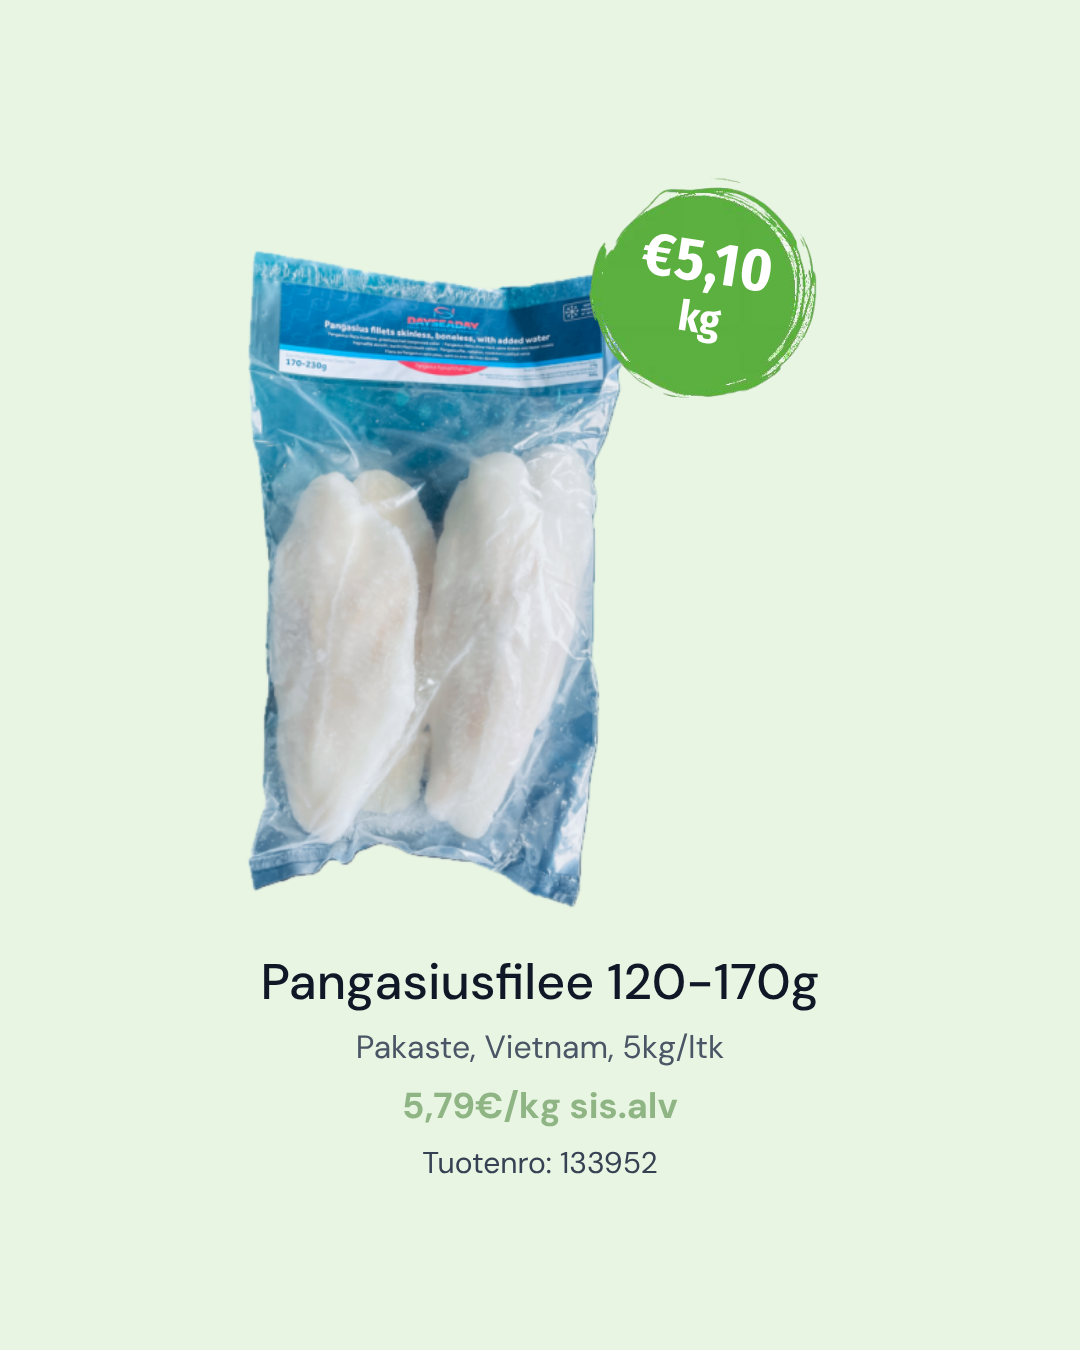
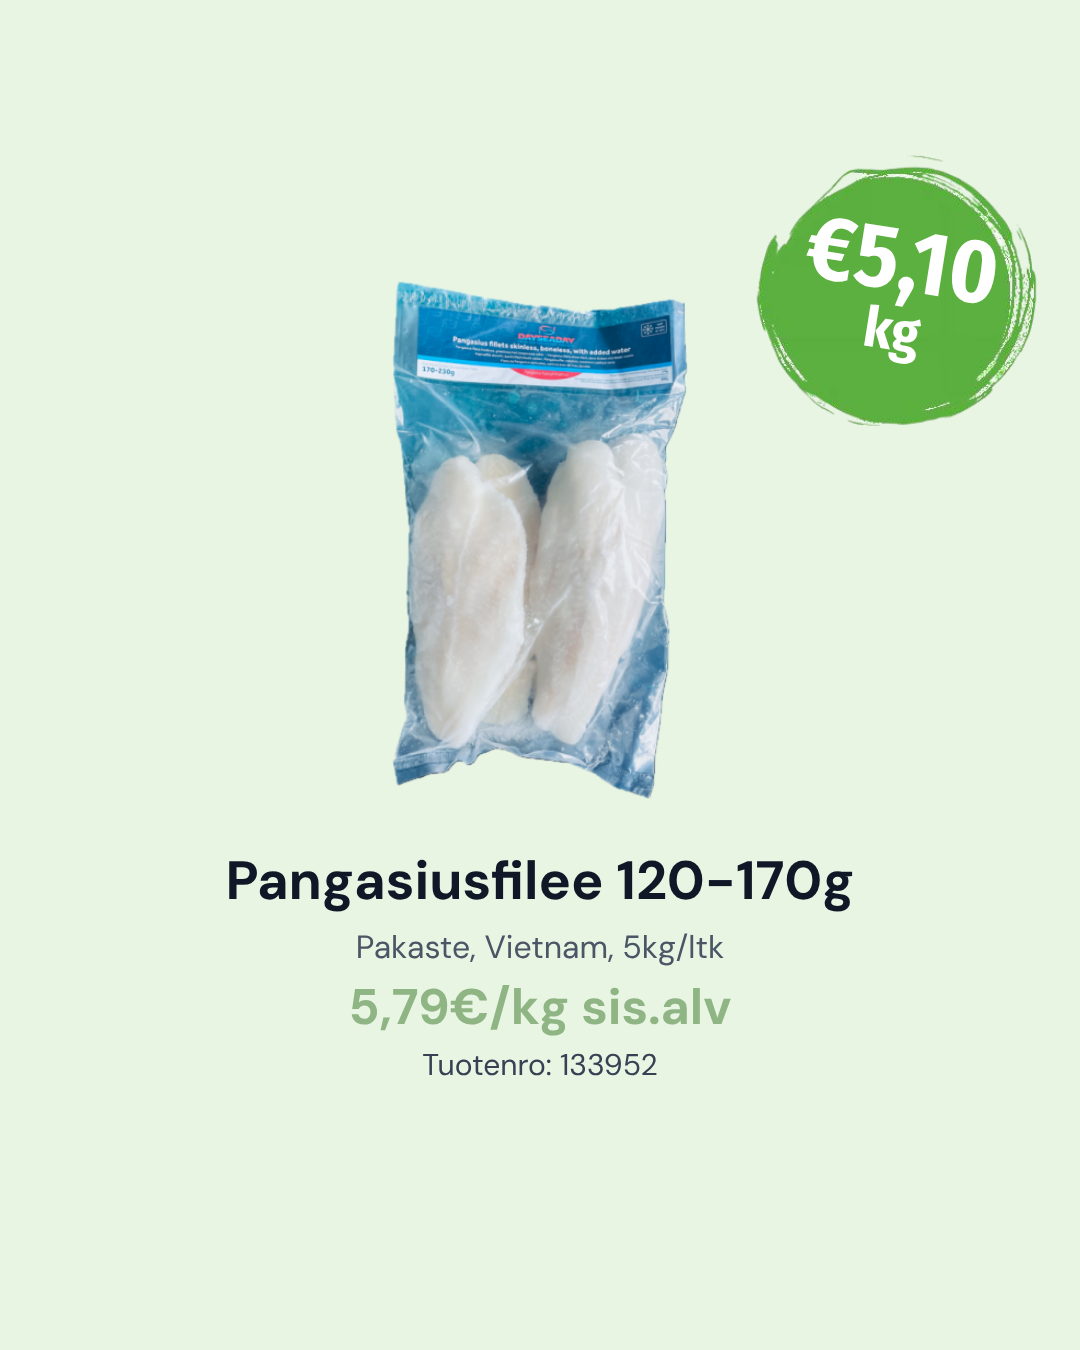
Align Instagram images on a fixed grid with larger prices
Use the same photo box, badge position and text start on every image,
centre layouts without a recipe tip vertically, and enlarge the badge
price and VAT-included price.

Claude-Session: https://claude.ai/code/session_01X8Lk915b9RmWmbPNMZUzmb

Changed region(s): [[0.2139, 0.1244, 0.9778, 0.8711]]

diff --git a/viikkotarjoukset/insta.py b/viikkotarjoukset/insta.py
@@ -14,6 +14,8 @@ from decimal import Decimal, ROUND_HALF_UP
 from rakenna import ALV, BG, HERE, data_uri, find, money, read_sheet, week_label
 
 W, H = 1080, 1350
+BADGE = 320  # hintapallon halkaisija (px)
+PHOTO_W, PHOTO_H = 640, 520  # kuva-alue, kuva keskitetään sen alareunaan
 
 
 def slug(s):
@@ -34,36 +36,36 @@ def page_html(it):
     a = lambda n: data_uri(os.path.join(HERE, "pohjat", n))
     vat = (it["price"] * ALV).quantize(Decimal("0.01"), ROUND_HALF_UP)
     img = find("kuvat", it["code"])
-    pw, ph = photo_size(img, 740, 600 if it["tip"] else 660)
+    pw, ph = photo_size(img, PHOTO_W, PHOTO_H)
+    dy = 0 if it["tip"] else 110  # ilman vinkkiä koko sommitelma hieman alemmas
+    price_fs = 90 if len(money(it["price"])) <= 4 else 72
     tip = (f'<div class="tip"><span>Käyttövinkki</span>{e(it["tip"])}</div>' if it["tip"] else "")
     return f"""<!doctype html><html><head><meta charset="utf-8">
 <link href="https://fonts.googleapis.com/css2?family=DM+Sans:wght@400;500;700&family=Fira+Sans+Condensed:wght@700&family=Just+Another+Hand&display=block" rel="stylesheet">
 <style>
 html,body{{margin:0}}
-body{{width:{W}px;height:{H}px;background:{BG};overflow:hidden;font-family:'DM Sans';box-sizing:border-box;
-     padding:60px 60px 70px;display:flex;flex-direction:column;align-items:center;justify-content:center;gap:44px}}
-.top{{display:flex;align-items:flex-start;padding-top:90px}}
-.photo{{display:block;width:{pw}px;height:{ph}px}}
-.badge{{position:relative;width:260px;height:260px;flex:none;margin-left:-50px;margin-top:-90px}}
+body{{width:{W}px;height:{H}px;background:{BG};overflow:hidden;font-family:'DM Sans';position:relative}}
+body>div{{position:absolute}}
+.pw{{left:{(W - PHOTO_W)//2}px;top:{dy + 170}px;width:{PHOTO_W}px;height:{PHOTO_H}px;display:flex;align-items:flex-end;justify-content:center}}
+.pw img{{max-width:100%;max-height:100%;width:{pw}px;height:{ph}px}}
+.badge{{left:{W - BADGE - 22}px;top:{dy + 22}px;width:{BADGE}px;height:{BADGE}px}}
 .badge img{{width:100%;height:100%;display:block}}
 .bt{{position:absolute;inset:0;display:flex;flex-direction:column;align-items:center;justify-content:center;
-     color:#fff;font-family:'Fira Sans Condensed';font-weight:700;transform:rotate(9deg);line-height:1;padding-bottom:6px}}
-.bt b{{font-size:60px;letter-spacing:1px}}
-.bt i{{font-style:normal;font-size:42px;margin-top:6px}}
-.txt{{display:flex;flex-direction:column;align-items:center;text-align:center;gap:14px;max-width:960px}}
+     color:#fff;font-family:'Fira Sans Condensed';font-weight:700;transform:rotate(9deg);line-height:.92;padding-bottom:8px}}
+.bt b{{font-size:{price_fs}px;letter-spacing:.5px}}
+.bt i{{font-style:normal;font-size:56px;margin-top:4px}}
+.txt{{left:60px;right:60px;top:{dy + 170 + PHOTO_H + 50}px;display:flex;flex-direction:column;align-items:center;text-align:center}}
 .txt p{{margin:0}}
-.nm{{font-weight:500;font-size:50px;line-height:1.18;color:#101828;text-wrap:balance}}
-.mt{{font-size:32px;color:#4a5565}}
-.vat{{font-weight:700;font-size:36px;color:#8fb584}}
-.cd{{font-size:30px;color:#364153}}
-.tip{{display:flex;flex-direction:column;align-items:center;text-align:center;max-width:940px;
-      font:46px/0.95 'Just Another Hand';color:#8fb584;text-wrap:balance}}
-.tip span{{font-size:30px;color:#4a5565;letter-spacing:1px;margin-bottom:6px}}
+.nm{{font-weight:600;font-size:54px;line-height:1.15;color:#101828;text-wrap:balance;max-width:940px}}
+.mt{{font-size:32px;line-height:1.2;color:#4a5565;margin-top:16px!important}}
+.vat{{font-weight:700;font-size:50px;line-height:1.1;color:#8fb584;margin-top:14px!important}}
+.cd{{font-size:30px;line-height:1.2;color:#364153;margin-top:12px!important}}
+.tip{{left:90px;right:90px;bottom:80px;height:150px;display:flex;flex-direction:column;align-items:center;justify-content:flex-end;text-align:center;
+      font:52px/0.95 'Just Another Hand';color:#8fb584;text-wrap:balance}}
+.tip span{{font-size:34px;color:#4a5565;letter-spacing:1px;margin-bottom:8px}}
 </style></head><body>
-<div class="top">
-  {f'<img class="photo" src="{data_uri(img)}">' if img else f'<div class="photo"></div>'}
-  <div class="badge"><img src="{a('hintapallo.png')}"><div class="bt"><b>€{money(it["price"])}</b><i>{e(it["unit"])}</i></div></div>
-</div>
+<div class="pw">{f'<img src="{data_uri(img)}">' if img else ''}</div>
+<div class="badge"><img src="{a('hintapallo.png')}"><div class="bt"><b>€{money(it["price"])}</b><i>{e(it["unit"])}</i></div></div>
 <div class="txt">
   <p class="nm">{e(it["name"])}</p>
   <p class="mt">{e(it["info"])}</p>
